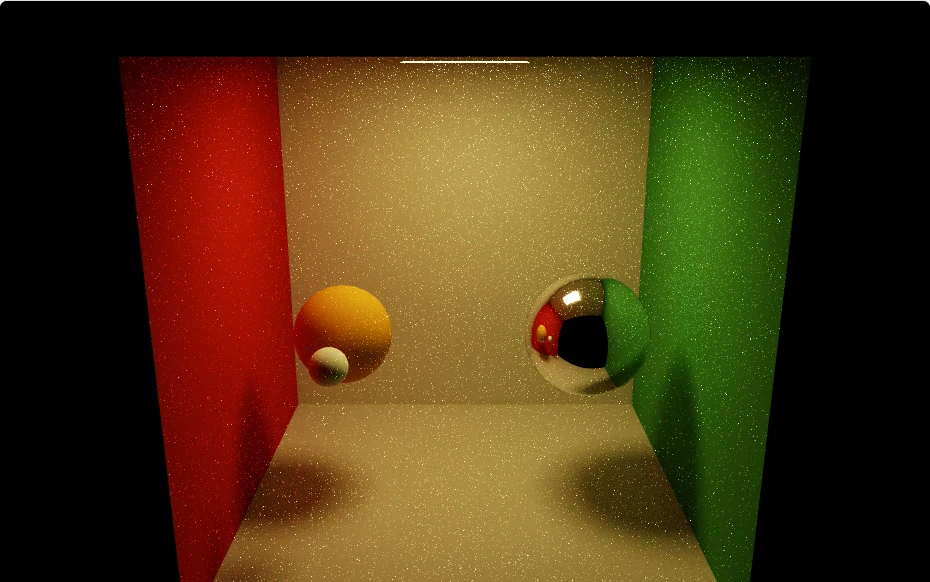
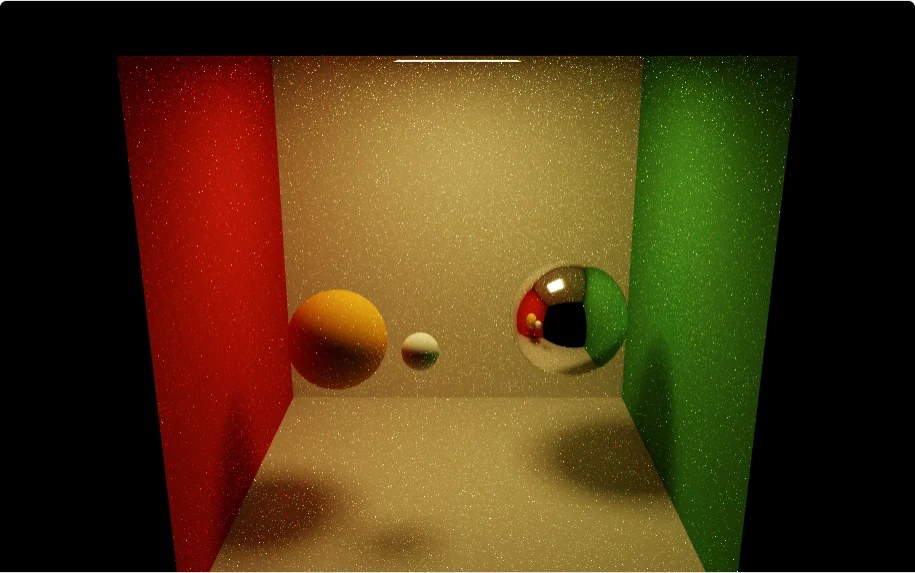
scenes: the Cornell box on Sphere (record 0001, step 8) (#72)
* scenes: the Cornell box on Sphere (record 0001, step 8)

The two balls of the Cornell box are `Sphere(0.4, material)` at the same
centres. The scene holds 8 instances, 4 triangles, 8 vertices, 2 lights and
7 nodes (2 BLAS, 5 TLAS). The counts are checked in scripts/scenes.test.ts.

ORACLE.mean: old 2e-5, measured mean 2.01e-6 (relative), largest 7.71e-5,
0 channels out of bounds, new 3e-5 (ten times the measured mean, rounded up
to one significant figure).

Render gate: the radius probe (probeRadius, record 0002) renders cornell-box
with the radius of each Sphere times 1.01 and asserts comparePictures fails.
Measured: 320 of 6,144 pixels beyond 4/255, mean 0.996/255, worst 156/255.

Goldens changed: cornell-box.png, determinism.png. scene-graph.png is
pixel-identical and is not changed. Stills of the three examples recaptured.
scene-graph.ts removes a Sphere as well as a mesh sphere.

Design: 0001
Design: 0002
Design: 0004

* traceability: DEC-0115 verified by scripts/scenes.test.ts (record 0001, step 8)

The Cornell box test now verifies decision 0001.15: the two balls are
Sphere objects. reqs:sync derives the link and the review.

Design: 0001

* docs: record 0001, step 8 entry (Design: 0001, record 0001 Record section)

diff --git a/scripts/scenes.test.ts b/scripts/scenes.test.ts
@@ -4,11 +4,12 @@
 // so a scene that stops being triangles, instances or lights fails here, in `bun run check`.
 //
 // Verifies: Design 0002.4
-// This file holds the three scenes of M2 in the table of "The differential scenes". It does not
-// hold the scenes of M3 (`physical`, `textures` and `hdri`), which no scene function makes yet.
+// This file holds the three scenes of M2 in the table of "The differential scenes", and the
+// Cornell box on `Sphere` (record 0001, step 8). It does not hold the scenes of M3 (`physical`,
+// `textures` and `hdri`), which no scene function makes yet.
 
 import { describe, expect, test } from 'bun:test';
-import { BufferGeometry, Mesh, SphereGeometry } from '@typeshade/radiance';
+import { BufferGeometry, Mesh, Sphere, SphereGeometry } from '@typeshade/radiance';
 import { INSTANCE_STRIDE, LIGHT_STRIDE, ScenePack } from '@typeshade/radiance/internal';
 import { scenes, type SceneName } from './scenes.ts';
 
@@ -57,6 +58,36 @@ function areas(g: BufferGeometry): number[] {
   }
   return out;
 }
+
+describe('the scene cornell', () => {
+  const s = packed('cornell');
+  // Verifies: Design 0001.15
+  test('makes the two balls Sphere objects of radius 0.4 at the same centres', () => {
+    const spheres: Sphere[] = [];
+    s.scene.traverse((o) => {
+      if (o instanceof Sphere) spheres.push(o);
+    });
+    expect(spheres.map((o) => [o.radius, ...o.position.toArray()])).toEqual([
+      [0.4, -0.45, 0.4, -0.35],
+      [0.4, 0.45, 0.4, 0.3],
+    ]);
+    expect(s.meshes.filter((m) => m.geometry instanceof SphereGeometry)).toHaveLength(0);
+  });
+  test('packs 8 instances, 4 triangles, 8 vertices, 2 lights and 7 nodes', () => {
+    // Five planes of the room and the lamp share two geometries of 2 triangles each. The two
+    // spheres are TLAS leaf entries with no BLAS (record 0001, decision 11). The nodes are one leaf
+    // for each plane BLAS, and 5 for the TLAS of the 8 instances.
+    const { instances, triangles, vertices, lights, nodes, tlasBase } = s.pack.counts;
+    expect({ instances, triangles, vertices, lights, nodes }).toEqual({
+      instances: 8,
+      triangles: 4,
+      vertices: 8,
+      lights: 2,
+      nodes: 7,
+    });
+    expect(tlasBase).toBe(2);
+  });
+});
 
 describe('the scene triangles', () => {
   const s = packed('triangles');

diff --git a/packages/addons/src/scenes/CornellBox.ts b/packages/addons/src/scenes/CornellBox.ts
@@ -8,7 +8,7 @@ import {
   PerspectiveCamera,
   PlaneGeometry,
   Scene,
-  SphereGeometry,
+  Sphere,
   Vector3,
 } from '@typeshade/radiance';
 
@@ -30,11 +30,12 @@ export interface CornellBox {
  * Its front face lights the room. Its back face lights the ceiling directly, so the ceiling is
  * not lit by bounce alone, and the mirror sphere reflects a lit ceiling.
  *
- * Every shape is triangles: the walls and the light are planes of two triangles each, and each
- * sphere is a `SphereGeometry` of 64 by 32 segments, 3,968 triangles. The segments are twice
- * three.js's default of 32 by 16. So the outline of the mirror sphere has 64 sides, and each
- * edge of its facets bends the reflection less. The scene pack holds 7,940 triangles, each shared
- * geometry once. It is the scene CI renders on the GPU and on the CPU oracle (design record 0002).
+ * The walls and the light are planes of two triangles each. The two balls are analytic
+ * spheres, `Sphere(0.4, material)`, which the path tracer meets by the quadratic with no triangle
+ * (design record 0001, "The analytic sphere"). So the outline of the mirror ball is round, and
+ * its reflection and the white ball's shadow have no facets. The scene pack holds 4 triangles
+ * and 8 instances. It is the scene CI renders on the GPU and on the CPU oracle (design record
+ * 0002).
  */
 export function createCornellBox(): CornellBox {
   const scene = new Scene();
@@ -63,9 +64,9 @@ export function createCornellBox(): CornellBox {
   lamp.position.set(0, 1.98, 0);
   lamp.rotation.x = Math.PI / 2;
 
-  const mirror = new Mesh(new SphereGeometry(0.4, 64, 32), new MirrorMaterial());
+  const mirror = new Sphere(0.4, new MirrorMaterial());
   mirror.position.set(-0.45, 0.4, -0.35);
-  const ball = new Mesh(new SphereGeometry(0.4, 64, 32), white);
+  const ball = new Sphere(0.4, white);
   ball.position.set(0.45, 0.4, 0.3);
 
   scene.add(floor, ceiling, back, left, right, lamp, mirror, ball);

diff --git a/site/examples/scene-graph.ts b/site/examples/scene-graph.ts
@@ -10,6 +10,7 @@ import {
   MirrorMaterial,
   Object3D,
   PathTracer,
+  Sphere,
   SphereGeometry,
 } from '@typeshade/radiance';
 import { OrbitControls, createCornellBox } from '@typeshade/radiance-addons';
@@ -17,9 +18,14 @@ import type { ExampleRun } from './types.ts';
 
 export default async function sceneGraph(canvas: HTMLCanvasElement): Promise<ExampleRun> {
   const { scene, camera, target, bounds } = createCornellBox();
-  // Take the box's own spheres out, and put a turning group in their place.
+  // Take the box's own spheres out, and put a turning group in their place. The box's balls are
+  // `Sphere` objects. A mesh sphere is taken out too.
   for (const child of [...scene.children])
-    if (child instanceof Mesh && child.geometry instanceof SphereGeometry) scene.remove(child);
+    if (
+      child instanceof Sphere ||
+      (child instanceof Mesh && child.geometry instanceof SphereGeometry)
+    )
+      scene.remove(child);
 
   const pivot = new Object3D();
   pivot.position.set(0, 0.8, 0);

diff --git a/docs/design/0001-scene-data-model.md b/docs/design/0001-scene-data-model.md
@@ -1061,4 +1061,22 @@ At step 3, the Cornell box gate of record 0002 runs on spheres of 960 triangles.
 at 16 by 16 pixels and 1,024 samples, the mean relative difference to the oracle is 3.27e-7.
 The largest is 2.86e-6. `ORACLE.mean` is 3.3e-6, ten times the mean, rounded up, and `abs` and
 `rel` stay 1e-3 and 5 %. Step 4 is delivered as 2f06d0e (typeshade/radiance#43) and step 5 as 4176027
-(typeshade/radiance#53), both on `main`. Steps 6 to 10 (Amendment 3) are not started.
+(typeshade/radiance#53), both on `main`.
+
+**Step 8** (Amendment 3, `Design: 0001`, typeshade/radiance#72). Steps 6, 7 and 9 of Amendment 3
+are on `main` as fd1c0ce (typeshade/radiance#66), d3a6fcc (#70) and 4c94329 (#64). Step 7 listed
+five deviations in its pull request body, and step 9 listed three. Each is kept there, with its
+disposition. Step 10 is not started.
+
+At step 8, the two balls of the Cornell box are `Sphere(0.4, material)` objects at the centres of
+the old mesh balls. `createCornellBox()` has 8 instances, 4 triangles, 8 vertices, 2 lights and 7
+nodes (2 BLAS and 5 TLAS). The record's TLAS count of 5 holds. `ORACLE.mean` is 3e-5, ten times
+the measured mean of 2.01e-6 on SwiftShader, rounded up. The largest difference is 7.71e-5, with 0
+channels out of bounds. The old value was 2e-5. The render-gate probe of record 0002 (every
+`Sphere` radius times 1.01) fails `comparePictures` with 320 of 6,144 pixels beyond 4/255, a mean
+of 0.996/255 and a worst pixel of 156/255. The inference of record 0002, "at most 6 pixels", was
+too low. The probe still fails, as the rule requires, and 6 pixels stays the bound of a render
+against its golden. The inference is not amended here, because the rule of record 0002 amends the
+paragraph only when the count is 6 or fewer. A later amendment of record 0002 should replace the
+inference with the measured count of 320. The mirror-ball crops at 768 pixels, before and after,
+are in the pull request. Their reading is in the pull request body.

diff --git a/reqs/decisions/DEC-0115.md b/reqs/decisions/DEC-0115.md
@@ -6,9 +6,12 @@ links:
 - REC-0001: IhNKBC9jth2DBzXvGsfbwWpznK-iNJb3TwzA1px5HQI=
 normative: true
 ref: ''
-references: []
-reviewed: qJZHhHYqNg5oSVNtwpsV_p6YWBwPjuxKIC6nrX7bSvc=
-verification: pending
+references:
+- keyword: Design 0001.15
+  path: scripts/scenes.test.ts
+  type: file
+reviewed: NONU5pgtrmi8vKws27ufAJcyMPyygRv7oqXOqTYFOBM=
+verification: test
 ---
 
 **Decision 0001.15.** `SphereGeometry` stays a triangle mesh with smooth vertex normals by default, and a glTF mesh keeps the normals of its file. The Cornell box uses two `Sphere` objects. The `geometries` example keeps its mesh sphere. A new example, `spheres`, compares a smooth mesh ball, a mesh ball with `flatShading` and a `Sphere`. This is the owner's decision of 2026-10-06 (final). Amendment 3 adds this decision.
